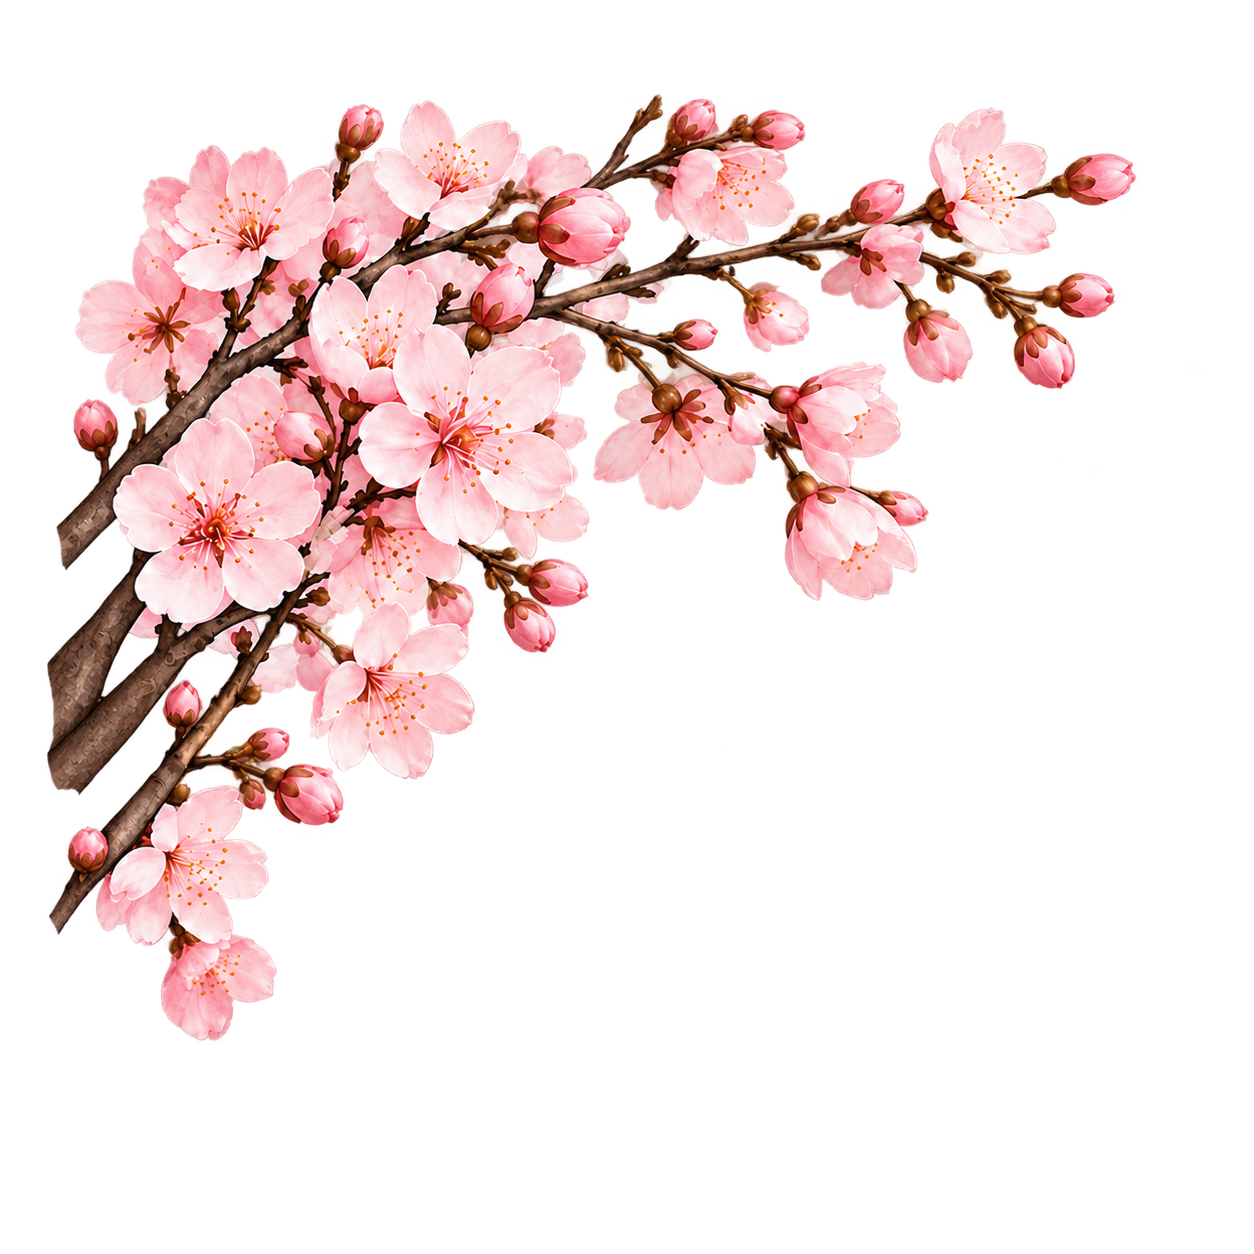
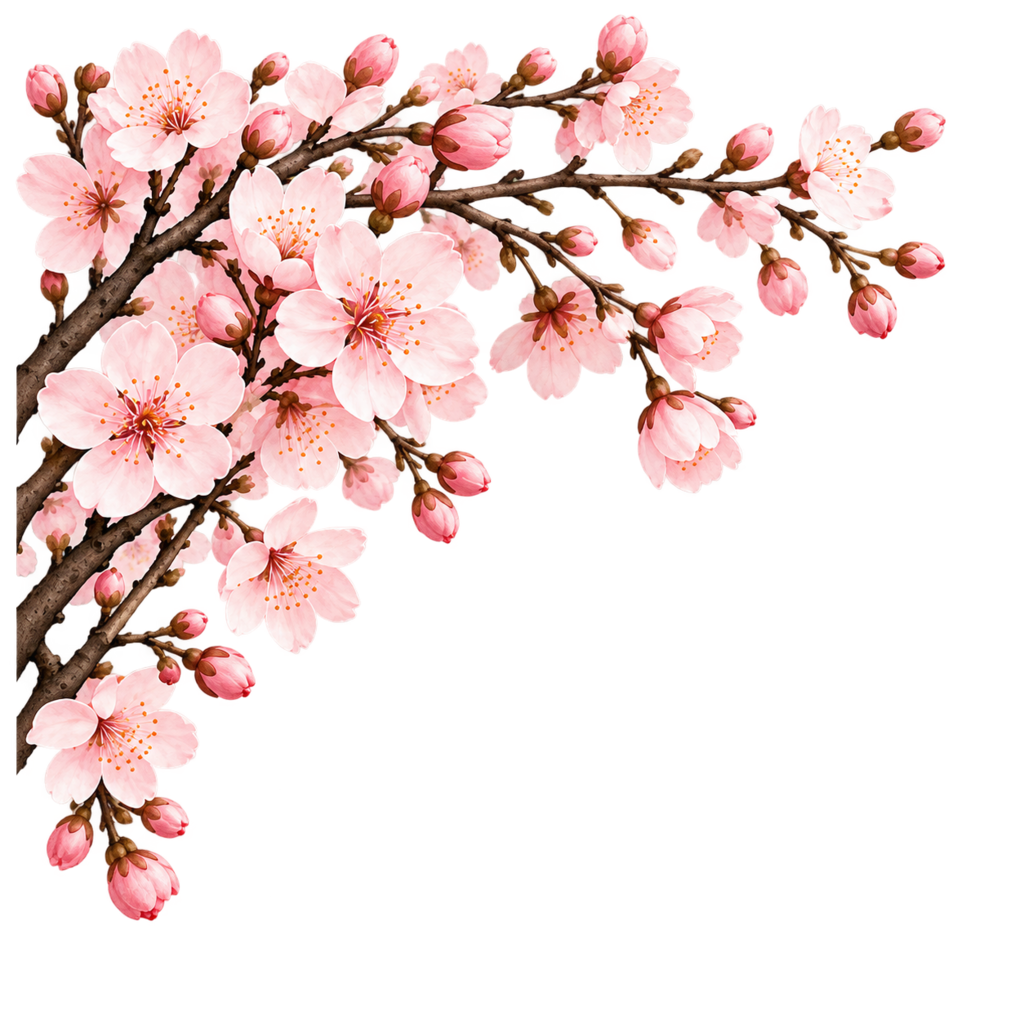
G215: ara kayıt (devam, 8/8)

diff --git a/gorevler/G215-gorsel.md b/gorevler/G215-gorsel.md
@@ -65,6 +65,13 @@ Devam — gpt-gorsel-N (2026-10-14), ara kayıt 4/8:
 - Çerçeveler yeşil merkezde saydamlaşma/koyulaşma ve pencereye taşan süsler nedeniyle tekrar üretildi. Seçilenler önce opak yeşil yüzeyli ara görsel, ardından yalnız dış zeminin imagegen ile şeffaflaştırılması yoluyla hazırlandı. Kullanıcı kodla pencere boyamayı reddetti; yeşil pikseller kodla doldurulmadı. Yalnız ton farkı nedeniyle yeniden üretim yapılmadı.
 - Üreticinin kare 1254 px çıktıları ve nesne çevresindeki boşluklar, istenen teslim ölçülerine orantılı PNG boyutlandırma ve şeffaf tuval boşluğu ile hazırlandı; nesne çizimi ve pencere oranı korunuyor. W1 comp'ları, mevcut zarf/kart parçaları ve PAKET 2 dosyaları korunuyor; repoya deneme/rapor/önizleme dosyası eklenmedi. Görev `alindi` kalır.
 
+Devam — gpt-gorsel-N (2026-10-14), tamamlanan 8/8:
+- Son dört parça: `parts/florals_tl.png`, `florals_br.png`, `accent_1.png`, `accent_2.png`; tamamı 1024×1024 gerçek alfa PNG. Sağ alt küme, bu oturumun sol üst kümesi referans verilerek aynı kiraz dalı/çiçek/tomurcuk diliyle karşı köşe olarak üretildi. Accent'ler ayrı ayrı tek yaprak ve tek beş taç yapraklı çiçek; alfa >128 genişlikleri karenin yaklaşık %40'ı.
+- İstenen sekiz dosyanın tümü `kit_check.denetle` GEÇTİ. Tam `--paket 5`: 19/22 dosya + zarf hizası GEÇTİ, toplam 20/23; yalnız bu oturumun kapsamı dışındaki `accent_3`, `divider`, `web_hero` eksik. Salt okunur `--paket 2` 5/5 GEÇTİ.
+- Kullanıcının korunmasını istediği `bg_page`, `bg_tile`, `envelope_closed`, `envelope_open`, `card_small`, `invitation_card` dosyalarının Git nesne özetleri başlangıçtaki kayıtla birebir aynı. W1 ve fotoğraflar yeniden üretilmedi. Güncelleme sırasında gelen önceki oturumun Sonuç/Günlük kayıtları korundu; bilgi kartı ve sol üst kümede bu oturumun seçilen dosyaları kullanıldı.
+- Nesneler tek, yazısız, kesilmemiş; foto pencereleri görsel olarak ve yeşil alan denetimiyle kontrol edildi. Çerçevelerin yeşil merkezini düzeltmek için yalnız imagegen kullanıldı. Nesne siluetinden 10 px uzaktaki en yüksek alfa bilgi kartı ve iki çerçevede 1/255; görünür dış gölge/hâle saptanmadı. Yeşil tonunu kodla boyama yapılmadı. Repoya yalnız bu sekiz seçilmiş PNG ve görev kaydı yazıldı; ek rapor/önizleme dosyası yok.
+- Devam kapsamı tamamlandı; görev `alindi`, sahibi `gpt-gorsel-N`. Kalan üç parça üretilmedi; ayrı dal veya PR açılmadı.
+
 ## Günlük
 - 2026-10-09 blokaj: K21: Paket 1 (yalnız doku/dekor) yerine Paket 4 (GPT tasarlar). G203 yerine G030; diğerleri G033 ile Paket 4'e çevrilecek
 - 2026-10-13 yeniden tanımlandı (K22–K24, G033)
@@ -80,3 +87,5 @@ Devam — gpt-gorsel-N (2026-10-14), ara kayıt 4/8:
 - 2026-10-14 ara kayıt: gpt-gorsel-G; kısım 2, 6/8: info_card ve decor_tl (Kaydet: florals_tl) kaydedildi. İki çerçeve imagegen'de yeşil merkez gradyanı/alfa boşluğu nedeniyle seçilemedi; kullanıcı yalnız imagegen istedi, kodla onarım yapılmadı.
 - 2026-10-14 gpt-gorsel-G: kısım 2 tamamlanamadı; kalan: frame_portrait, frame_landscape + decor_br, accent_1–3, divider, web_hero. PAKET 2 gpt-gorsel-M tarafından main'de tamamlandı, 5/5 kontrol geçti. Durum alindi; bu oturum burada durdu.
 - 2026-10-14 ara kayıt: gpt-gorsel-N; devam, 4/8: kare closure, info_card, frame_portrait ve frame_landscape kaydedildi; dosya denetimleri 4/4 GEÇTİ.
+- 2026-10-14 ara kayıt: gpt-gorsel-N; devam, 8/8: florals_tl, florals_br, accent_1 ve accent_2 kaydedildi; istenen sekiz dosya kontrolü GEÇTİ. Durum alindi.
+- 2026-10-14 devam bitti; kalan: accent_3, divider, web_hero
